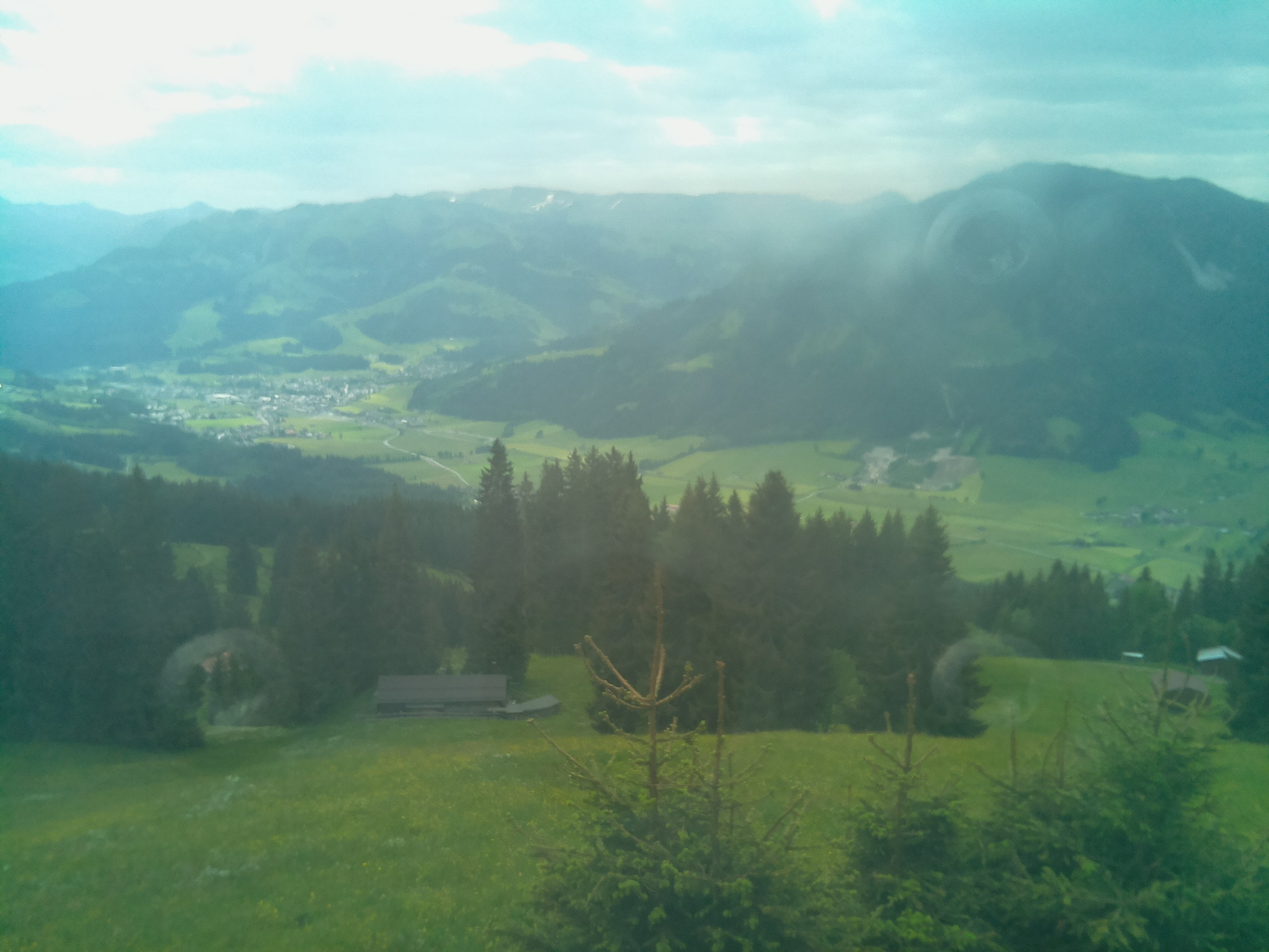
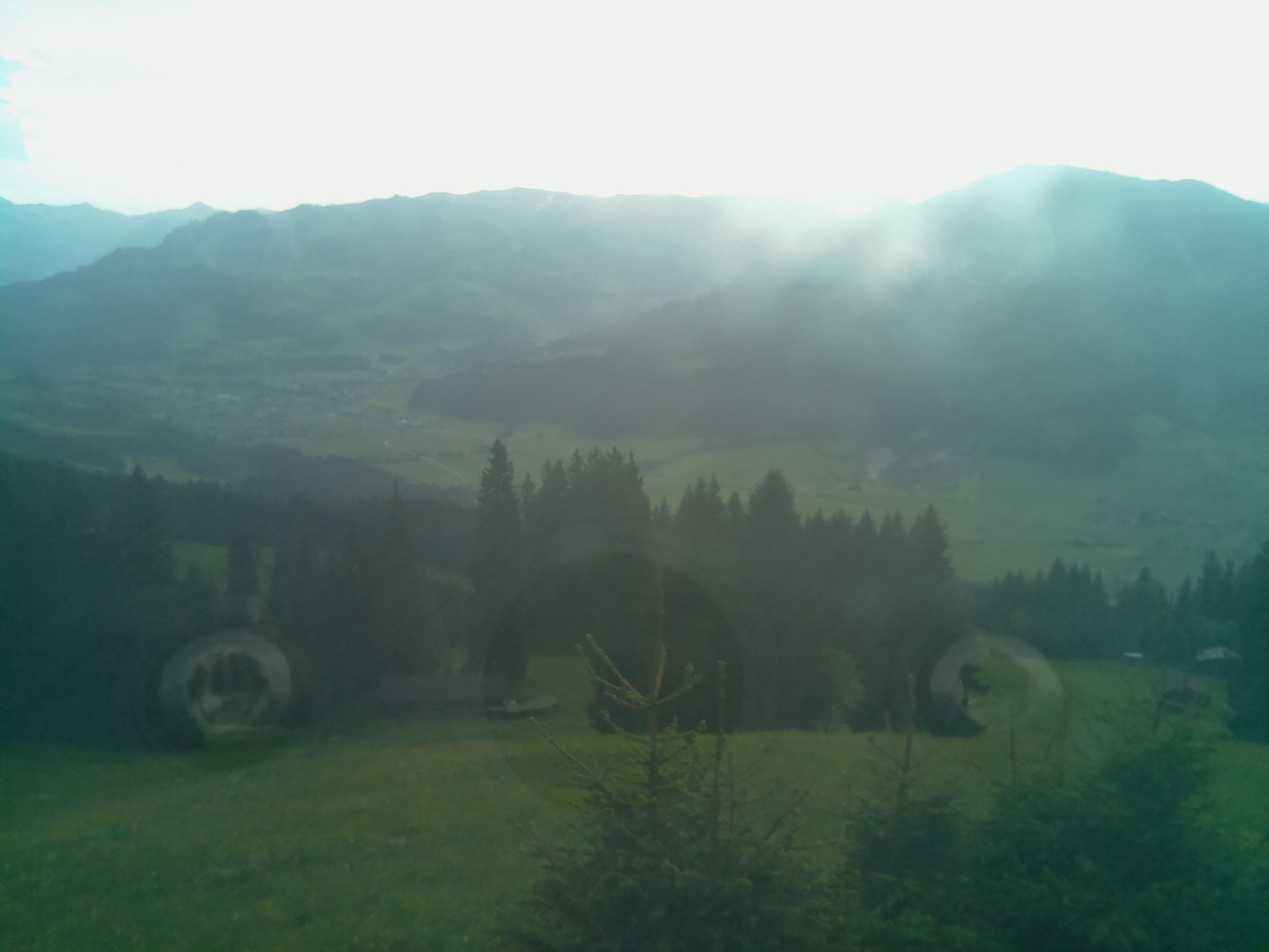
I'm a bot beep boop

diff --git a/resources/huette.md b/resources/huette.md
@@ -6,13 +6,13 @@ image: '/assets/img/'
 description: 'Live image from the Austrian alps'
 twitter_text: ' '
 ---
-## Latest image from 23 May 2022 at 10:10
+## Latest image from 23 May 2022 at 16:10
 <div class="huette">
   <div class="huette-image">
     <img src="{{ "/assets/img/huette.jpg" | prepend: site.baseurl }}">
   </div>
   <div class="huette-text">
-        <h2>Current Temperature: 18.437°C</h2>
+        <h2>Current Temperature: 19.875°C</h2>
         <p>A solar powered raspberry pi left alone in the wild is sending daily images and temperature data to this website. It should give you an impression about the current weather in the "Brixental".</p>
 
   </div>

diff --git a/rpi-script/huette.md b/rpi-script/huette.md
@@ -6,13 +6,13 @@ image: '/assets/img/'
 description: 'Live image from the Austrian alps'
 twitter_text: ' '
 ---
-## Latest image from 23 May 2022 at 10:10
+## Latest image from 23 May 2022 at 16:10
 <div class="huette">
   <div class="huette-image">
     <img src="{{ "/assets/img/huette.jpg" | prepend: site.baseurl }}">
   </div>
   <div class="huette-text">
-        <h2>Current Temperature: 18.437°C</h2>
+        <h2>Current Temperature: 19.875°C</h2>
         <p>A solar powered raspberry pi left alone in the wild is sending daily images and temperature data to this website. It should give you an impression about the current weather in the "Brixental".</p>
 
   </div>
